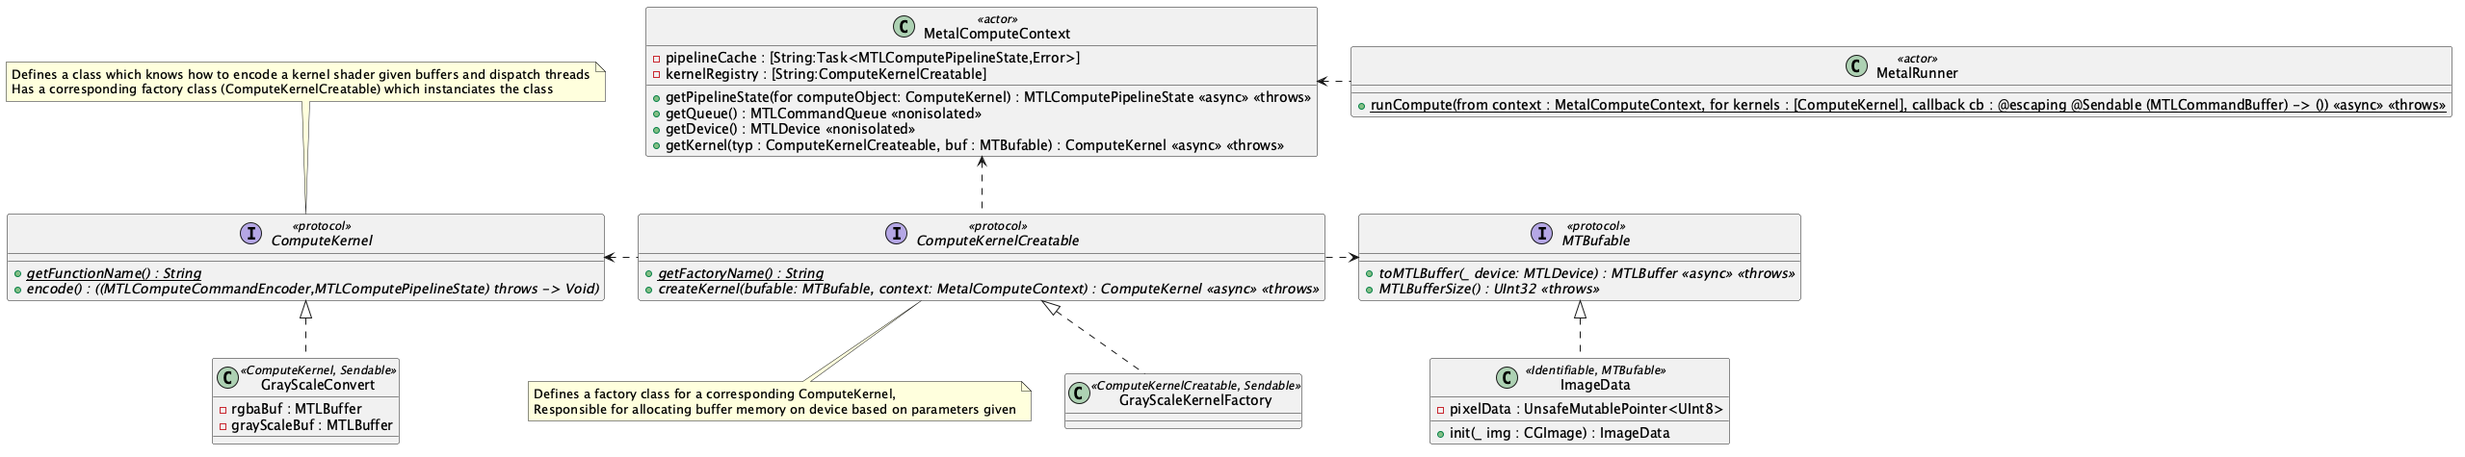
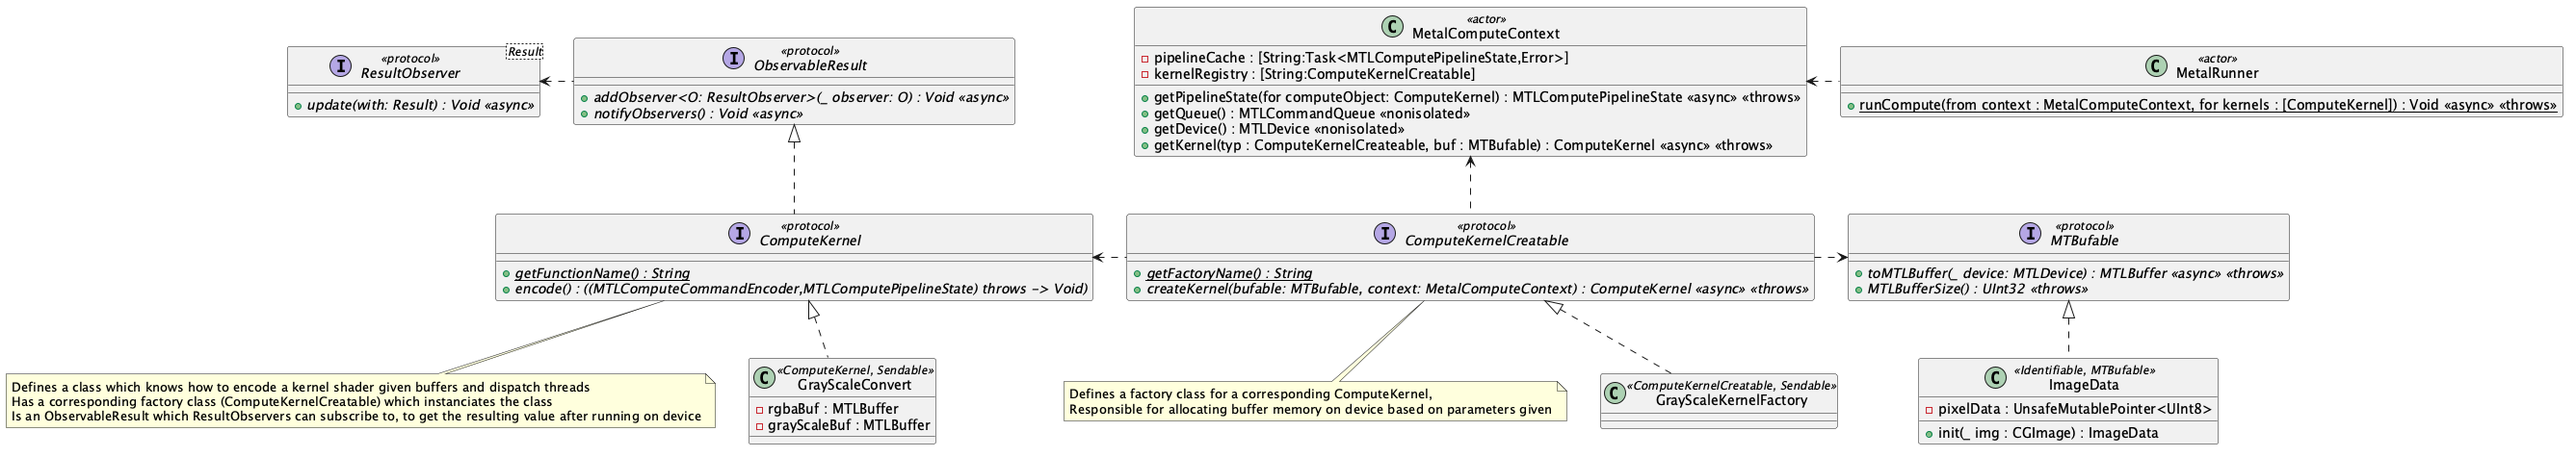
Fixed a bug when setting buffers in a Metal command encoder which used the wrong memory size for some buffers. Added observer pattern for retrieving ComputeKernel results safely. Updated Kernel subsystem diagram

diff --git a/ImgLabs/KernelEngine/HLShaders/GrayScaleConvert.swift b/ImgLabs/KernelEngine/HLShaders/GrayScaleConvert.swift
@@ -10,8 +10,30 @@ import Metal
 
 /// A class which defines to other classes a kernel on how to convert an image of type ImageData to a 1D array of values representing the grayscale image
 /// Is thread-safe, after init no values change
-class GrayScaleConvert : ComputeKernel, Sendable {
+actor GrayScaleConvert : ComputeKernel, Sendable {
     
+    private var observers : [(Any) async -> ()] = []; // Store update functions instead to allow for passing of any type value (the type will be checked within the function)
+    
+    /// Observe for a [Float] type
+    func addObserver<O: ResultObserver>(_ observer: O) async {
+        let updateFunc : @Sendable (Any) async -> () = { value in
+            guard let typedValue = value as? O.Result else {return;} // Result is known at compile time
+            await observer.update(with: typedValue);
+        }
+        self.observers.append(updateFunc);
+    }
+    
+    func notifyObservers() async {
+        // Get result
+        let rawPtr : UnsafeMutableRawPointer = self.grayScaleBuf.contents();
+        let length : Int = self.grayScaleBuf.length / MemoryLayout<Float>.stride;
+        let typedPointer = rawPtr.bindMemory(to: Float.self, capacity: length);
+        let result : [Float] = [Float](UnsafeBufferPointer(start: typedPointer, count: length));
+        for observerFunc in self.observers {
+            Task {await observerFunc(result);}
+        }
+    }    
+
     private nonisolated static let name : String = "convertToGrayScale"; // Matches the Metal definition
     
     private let rgbaBuf : MTLBuffer; // UChar array holding RGBA values, single photo
@@ -28,7 +50,7 @@ class GrayScaleConvert : ComputeKernel, Sendable {
     ///     - rgbBufArr: Contains a 1D array of values on a Metal buffer representing the premultiplied RGBA values of the pixels
     ///     - resultBufArr: The resulting buffer -- i.e., stores the result of the RGBA pixels to grayscale values (one element per pixel)
     ///     - pixelCount: The number of RGBA values
-    init(rgbBufArr : MTLBuffer, resultBufArr : MTLBuffer, pixelCount: UInt32) {
+    init(rgbBufArr : MTLBuffer, resultBufArr : MTLBuffer, pixelCount: UInt32) async {
         self.rgbaBuf = rgbBufArr;
         self.grayScaleBuf = resultBufArr;
         self.numOfPixels = pixelCount;
@@ -38,22 +60,25 @@ class GrayScaleConvert : ComputeKernel, Sendable {
     
     /// Sets up conversion to grayscale kernel. Encodes internal weights, a black background color and the ingested image raw pixel values along with the out result
     /// One thread per pixel, will dispatch the maximum width allowed per thread group
-    func encode() -> (any MTLComputeCommandEncoder, any MTLComputePipelineState) throws -> () {
+    nonisolated func encode() async -> (any MTLComputeCommandEncoder, any MTLComputePipelineState)-> () {
+        let rgbaInput : MTLBuffer = await self.rgbaBuf;
+        let grayScaleOutput : MTLBuffer = await self.grayScaleBuf;
+        var rgbWeights : SIMD4<Float> = await Self.rgbWeights;
+        var bkgColor : SIMD4<Float> = await Self.backgroundColor;
+        var numOfPixels : UInt32 = await self.numOfPixels;
+        
         return ({ (encoder, pipelineState) in
             // Setup memory
-            var rgbWeights : SIMD4<Float> = Self.rgbWeights;
-            var bkgColor : SIMD4<Float> = Self.backgroundColor;
-            var numOfPixels : UInt32 = self.numOfPixels;
             // setBytes copies small memory directly to the encoded command (i.e., it's inlined thus being fast)
-            encoder.setBytes(&rgbWeights, length: MemoryLayout.size(ofValue: rgbWeights), index: 2);
-            encoder.setBytes(&bkgColor, length: MemoryLayout.size(ofValue: bkgColor), index: 1);
-            encoder.setBytes(&numOfPixels, length: MemoryLayout.size(ofValue: numOfPixels), index: 4);
-            encoder.setBuffer(self.rgbaBuf, offset: 0, index: 0);
-            encoder.setBuffer(self.grayScaleBuf, offset: 0, index: 3);
+            encoder.setBytes(&rgbWeights, length: MemoryLayout<SIMD4<Float>>.stride, index: 2);
+            encoder.setBytes(&bkgColor, length: MemoryLayout<SIMD4<Float>>.stride, index: 1);
+            encoder.setBytes(&numOfPixels, length: MemoryLayout<UInt32>.stride, index: 4);
+            encoder.setBuffer(rgbaInput, offset: 0, index: 0);
+            encoder.setBuffer(grayScaleOutput, offset: 0, index: 3);
             
             // Setup thread dispatch
             // Determine the total 1D grid size (total number of pixel threads to run)
-            let totalPixelThreads = Int(self.numOfPixels);
+            let totalPixelThreads = Int(numOfPixels);
             let gridExecutionSize = MTLSize(width: totalPixelThreads, height: 1, depth: 1);
 
             // Query the pipeline state to discover the absolute maximum allocation permitted by the GPU hardware
@@ -72,7 +97,7 @@ class GrayScaleConvert : ComputeKernel, Sendable {
 class GrayScaleKernelFactory : ComputeKernelCreatable, Sendable {
     static func getFactoryName() -> String {return GrayScaleConvert.getFunctionName();}
     
-    func createKernel(bufable: any MTBufable, context: MetalComputeContext) async throws -> ComputeKernel {
+    func createKernel(bufable: any MTBufable, context: MetalComputeContext) async throws -> any ComputeKernel {
         // Get raw pixel values, convert to MTLBuffer (put in shared memory)
         let devToAlloc : MTLDevice = context.getDevice();
         guard let rgbBuf : MTLBuffer = try? await bufable.toMTLBuffer(devToAlloc) else {
@@ -87,7 +112,7 @@ class GrayScaleKernelFactory : ComputeKernelCreatable, Sendable {
         guard let resultAlloc = devToAlloc.makeBuffer(length: Int(numOfPixels) * MemoryLayout<Float>.size, options: [.storageModeShared]) else {
             throw KernelEngineError.failedToAllocateMTLBufferMemory;
         }
-        return GrayScaleConvert(rgbBufArr: rgbBuf, resultBufArr: resultAlloc, pixelCount: numOfPixels);
+        return await GrayScaleConvert(rgbBufArr: rgbBuf, resultBufArr: resultAlloc, pixelCount: numOfPixels);
     }
 }
 

diff --git a/ImgLabs/KernelEngine/HLShaders/MeanValue.swift b/ImgLabs/KernelEngine/HLShaders/MeanValue.swift
@@ -7,7 +7,27 @@
 
 import Metal
 
-class MeanValue: ComputeKernel {
+actor MeanValue: ComputeKernel {
+    private var observers : [(Any) async -> ()] = []; // Store update functions instead to allow for passing of any type value (the type will be checked within the function)
+    
+    /// Observe for a Float type
+    func addObserver<O: ResultObserver>(_ observer: O) async {
+        let updateFunc : @Sendable (Any) async -> () = { value in
+            guard let typedValue = value as? O.Result else {return;} // Result is known at compile time
+            await observer.update(with: typedValue);
+        }
+        self.observers.append(updateFunc);
+    }
+    
+    func notifyObservers() async {
+        // Get result
+        let rawPtr : UnsafeMutableRawPointer = self.sumResult.contents();
+        let typedPointer : UnsafeMutablePointer<Float> = rawPtr.bindMemory(to: Float.self, capacity: 1); // Single float value, multiplied by stride automatically
+        let result : Float = typedPointer.pointee / Float(self.maxLength); // Want to return mean, kernel computed sum thus divide by number of elements
+        for observerFunc in self.observers {
+            Task {await observerFunc(result);}
+        }
+    }
     
     private nonisolated static let name : String = "calculateArraySum";
     
@@ -15,7 +35,7 @@ class MeanValue: ComputeKernel {
     private var maxLength: UInt32;
     private var sumResult: MTLBuffer;
     
-    init(arrayToSum: MTLBuffer, numOfElements: UInt32, resultBuf: MTLBuffer) {
+    init(arrayToSum: MTLBuffer, numOfElements: UInt32, resultBuf: MTLBuffer) async {
         self.values = arrayToSum;
         self.maxLength = numOfElements;
         self.sumResult = resultBuf;
@@ -23,19 +43,24 @@ class MeanValue: ComputeKernel {
 
     nonisolated static func getFunctionName() -> String {return Self.name;}
     
-    func encode() -> (any MTLComputeCommandEncoder, any MTLComputePipelineState) throws -> () {
+    nonisolated func encode() async -> (any MTLComputeCommandEncoder, any MTLComputePipelineState) -> () {
+        // Get copies of variables, may possibly be done on another thread in which the encoder is not sendable, thus don't want to make it possible for another thread to run with the encoder
+        var len : UInt32 = await self.maxLength;
+        let values : MTLBuffer = await self.values;
+        let result : MTLBuffer = await self.sumResult;
+            
         return ({ (encoder, pipelineState) in
             // Setup memory
-            encoder.setBytes(&self.maxLength, length: MemoryLayout.size(ofValue: self.maxLength), index: 1);
-            encoder.setBuffer(self.values, offset: 0, index: 0);
-            encoder.setBuffer(self.sumResult, offset: 0, index: 2);
+            encoder.setBytes(&len, length: MemoryLayout<UInt32>.stride, index: 1);
+            encoder.setBuffer(values, offset: 0, index: 0);
+            encoder.setBuffer(result, offset: 0, index: 2);
             // Thread group requires the length of bytes be specified (the object isin't created on the CPU)
             // Specified for threadgroup(0) -- want one float per thread in a thread group of maximum thread size for the given device
-            encoder.setThreadgroupMemoryLength(MemoryLayout.size(ofValue: Float.self)*pipelineState.maxTotalThreadsPerThreadgroup, index: 0);
+            encoder.setThreadgroupMemoryLength(MemoryLayout<Float>.stride*pipelineState.maxTotalThreadsPerThreadgroup, index: 0);
             
             // Setup thread dispatch
             // Determine the total 1D grid size
-            let totalThreads = Int(self.maxLength);
+            let totalThreads = Int(len);
             let gridExecutionSize = MTLSize(width: totalThreads, height: 1, depth: 1);
 
             // Query the pipeline state to discover the absolute maximum allocation permitted by the GPU hardware
@@ -69,7 +94,7 @@ class MeanValueFactory: ComputeKernelCreatable {
         guard let resultAlloc = devToAlloc.makeBuffer(length: MemoryLayout<Float>.size, options: [.storageModeShared]) else {
             throw KernelEngineError.failedToAllocateMTLBufferMemory;
         }
-        return MeanValue(arrayToSum: valuesToSumBuf, numOfElements: numOfValues, resultBuf: resultAlloc);
+        return await MeanValue(arrayToSum: valuesToSumBuf, numOfElements: numOfValues, resultBuf: resultAlloc);
     }
     
     

diff --git a/ImgLabs/KernelEngine/HLObjects/MetalRunner.swift b/ImgLabs/KernelEngine/HLObjects/MetalRunner.swift
@@ -9,12 +9,12 @@ import Metal
 
 public actor MetalRunner {
     /// Takes all kernels and executes them against a MetalComputeContext
+    /// All ResultObservers (assuming their Result type matches the corresponding ComputeKernel result) update() method will be invoked after completion
     ///  - Parameters:
     ///     - from: The MetalComputeContext object to get the device, pipeline state (per kernel) and queue from
     ///     - kernels: The list of compute kernels to execute
-    ///     - cb : The callback function to call once all kernels in the list finish execution (will outlive this function, is thread-safe)
     /// - Throws: KernelEngineError if setup fails
-    public static func runCompute(from context : MetalComputeContext, for kernels : [ComputeKernel], callback cb : @escaping @Sendable (MTLCommandBuffer) -> ()) async throws -> () {
+    public static func runCompute(from context : MetalComputeContext, for kernels : [any ComputeKernel]) async throws -> () {
         // await may pick back up execution on a different thread...Metal objects arn't inherently thread safe
         // thus, create all objects (thread doesn't matter), then only when modifying those objects, use the same thread
         var pipelines: [MTLComputePipelineState] = [];
@@ -29,7 +29,6 @@ public actor MetalRunner {
         guard let commandBuffer = context.getQueue().makeCommandBuffer() else {
             throw KernelEngineError.failedToCreateComputeCommandBuffer;
         }
-        
         // Encoding and executing of Kernels now happens on the same thread
         // Zip encoding lambda's pre-fetched pipelines together
         for (pipeline,encoding) in zip(pipelines,kernelEncodingLogics) {
@@ -40,7 +39,19 @@ public actor MetalRunner {
             try encoding(encoder, pipeline);
             encoder.endEncoding();
         }
-        commandBuffer.addCompletedHandler(cb);
-        commandBuffer.commit(); // Run all the work on the GPU
+        
+        // withCheckedContinuation will block until resume() is called, which is exactly what will be called in the callback once the GPU finishes
+        await withCheckedContinuation { cb in
+            commandBuffer.addCompletedHandler({ _ in
+                cb.resume();
+            });
+            commandBuffer.commit(); // Run all the work on the GPU
+        }
+        // Continue here once GPU work is complete
+        for kernel in kernels {
+            Task {
+                await kernel.notifyObservers(); // Notify all observers of all kernels that the GPU finished and the results are ready
+            }
+        }
     }
 }

diff --git a/ImgLabs/ContentView.swift b/ImgLabs/ContentView.swift
@@ -99,8 +99,10 @@ struct ContentView: View { // This a custom view, it conatains a body
                                         let factoryGrayScale = GrayScaleKernelFactory();
                                         let computeContext : MetalComputeContext = MetalComputeContext()!;
                                         await computeContext.registerKernel(factory: factoryGrayScale);
-                                        async let grayScaleTest : ComputeKernel = computeContext.getKernel(typ: factoryGrayScale, buf: item);
-                                        try await MetalRunner.runCompute(from: computeContext, for: [grayScaleTest], callback: {_ in print("Done!")});
+                                        async let grayScaleTest : any ComputeKernel = computeContext.getKernel(typ: factoryGrayScale, buf: item);
+                                        let test : any ResultObserver<[Float]> = DummyClass();
+                                        try await grayScaleTest.addObserver(test);
+                                        try await MetalRunner.runCompute(from: computeContext, for: [grayScaleTest]);
                                     }
                                 }
                         }
@@ -113,6 +115,15 @@ struct ContentView: View { // This a custom view, it conatains a body
 
 #Preview {
     ContentView()
+}
+
+class DummyClass : ResultObserver<[Float]> {
+    func update(with: [Float]) {
+        print("The first values are...");
+        for i in 0...2 {
+            print(with[i]);
+        }
+    }
 }
 
 // @state tells SwiftUI to watch the value for any changes, if so body will be called again

diff --git a/ImgLabs/KernelEngine/HLObjects/ComputeKernel.swift b/ImgLabs/KernelEngine/HLObjects/ComputeKernel.swift
@@ -9,15 +9,15 @@ import Foundation
 import Metal
 
 /// Denotes a  protocol in which a class is responsible for owning a kernel function and how to bind/dispatch it
-public protocol ComputeKernel {
-    
+/// ComputeKernels are also observable which acts as the primary means for safely returning the finished result
+public protocol ComputeKernel : ObservableResult {
     /// Gets the kernel function name, typically used to make the function/pipeline state for the given kernel from the library
     /// The function must be thread-safe
     /// - Returns: The kernel function name as a string
     nonisolated static func getFunctionName() -> String;
     
     /// Abstract lambda logic which the conforming object binds arguments and sets up the thread count for dispatch of the corresponding kernel
-    /// This function may also throw errors if encoding is not succsesful. Assumes setComputePipelineState was called on the given encoder with the given pipeline prior
-    func encode() -> ((MTLComputeCommandEncoder,MTLComputePipelineState) throws -> ());
+    /// Assumes setComputePipelineState was called on the given encoder with the given pipeline prior
+    func encode() async -> ((MTLComputeCommandEncoder,MTLComputePipelineState) -> ());
 }
 

diff --git a/ImgLabs/KernelEngine/HLObjects/Observable.swift b/ImgLabs/KernelEngine/HLObjects/Observable.swift
@@ -1,0 +1,28 @@
+//
+//  Observable.swift
+//  ImgLabs
+//
+//  Created by Davis Lenover on 2026-07-03.
+//  Denotes a protcol following the observer pattern
+
+import Foundation
+
+/// Implementing objects can be observed for some result (e.g., a Kernel finishing)
+public protocol ObservableResult {
+    /// Adds a ResultObserver to the list of observers or rather gets the update function to call when notifyObservers() is called
+    /// - Parameters:
+    ///     - observer: An object of ResultObserver<Result> type. If the Result type is not what is returned via the protocol implementing object, update() is never called for the given observer
+    func addObserver<O: ResultObserver>(_ observer: O) async;
+    
+    /// Notifies all observers who have subscribed via addObserver
+    func notifyObservers() async;
+}
+
+/// Implementing objects can observe objects which implement ObservableResult
+public protocol ResultObserver<Result> {
+    associatedtype Result;
+    /// Called if notifyObservers() was invoked from a ObservableResult object subscribed to
+    /// Only invoked it the type of Result matches was ObservableResult can provide
+    func update(with: Result) async;
+}
+

diff --git a/ImgLabs/KernelEngine/HLObjects/KernelRegistry.swift b/ImgLabs/KernelEngine/HLObjects/KernelRegistry.swift
@@ -12,7 +12,7 @@ internal final actor KernelRegistry {
         self.kernels[type(of:kernelFactory).getFactoryName()] = kernelFactory;
     }
     
-    public func getKernel(name: String) async throws -> (MTBufable,MetalComputeContext) async throws -> ComputeKernel {
+    public func getKernel(name: String) async throws -> (MTBufable,MetalComputeContext) async throws -> any ComputeKernel {
         guard let kernel = self.kernels[name] else {
             throw KernelEngineError.failedToFindKernelCreateFunction(name: name);
         }
@@ -26,5 +26,5 @@ public protocol ComputeKernelCreatable {
     /// - Parameters:
     ///     - buf: An object which conforms to the MTBufable protocol (i.e., to allow the ComputeKernel to gather the data it needs to pass to the device)
     ///     - context: An context object which houses information about the device being used (to point the ComputeKernel instance as to where to allocate memory/dispatch threads)
-    func createKernel(bufable: MTBufable, context: MetalComputeContext) async throws -> ComputeKernel;
+    func createKernel(bufable: MTBufable, context: MetalComputeContext) async throws -> any ComputeKernel;
 }

diff --git a/ImgLabs/KernelEngine/HLObjects/MetalContext.swift b/ImgLabs/KernelEngine/HLObjects/MetalContext.swift
@@ -33,7 +33,7 @@ public actor MetalComputeContext {
     
     /// Gets the compute pipeline state object for a given function
     /// - Parameters: functionName
-    public func getPipelineState(for computeObject: ComputeKernel) async throws -> MTLComputePipelineState {
+    public func getPipelineState(for computeObject: any ComputeKernel) async throws -> MTLComputePipelineState {
         let functionName = type(of: computeObject).getFunctionName(); // static function call
         
         // If a task already exists (either running or finished), await it directly
